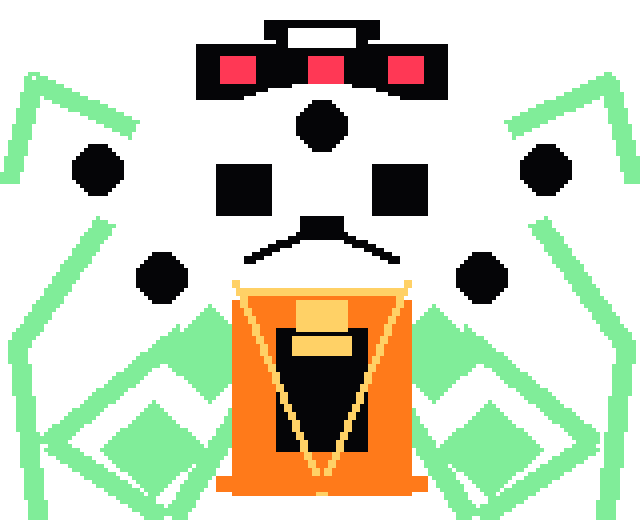
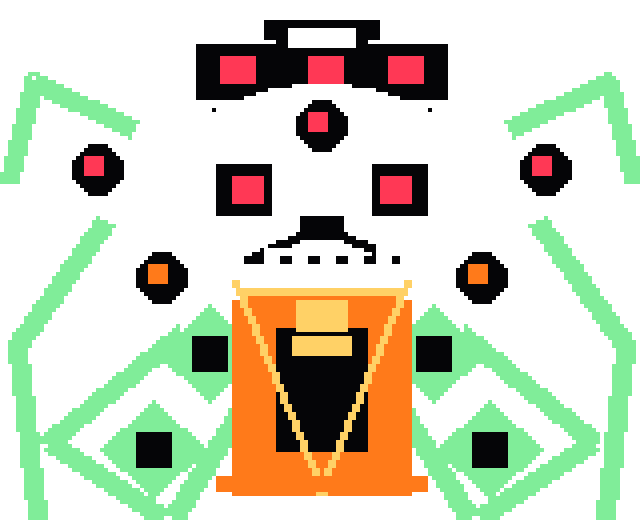
Sharpen omega flowey soul storm

diff --git a/script.js b/script.js
@@ -1549,6 +1549,21 @@ function omegaPattern(dt) {
     const angle = t * 1.9 + index * 0.82;
     spawn("pellet", { x: origin[0], y: origin[1], vx: Math.cos(angle) * (148 + progress * 38), vy: Math.sin(angle) * (148 + progress * 38), r: 7, angle, spin: -2.7 });
   }
+  if (state.wave === 2 && every("omega-soul-relay", 0.9 - progress * 0.1, dt)) {
+    const index = sequenceIndex(0.9 - progress * 0.1);
+    const safe = index % 6;
+    const cx = arena.x + arena.w / 2;
+    const cy = arena.y + arena.h / 2;
+    for (let i = 0; i < 6; i++) {
+      if (i === safe || i === (safe + 1) % 6) continue;
+      const a = (Math.PI * 2 * i) / 6 + t * 0.22;
+      const x = cx + Math.cos(a) * (arena.w / 2 + 20);
+      const y = cy + Math.sin(a) * (arena.h / 2 + 20);
+      const toward = Math.atan2(cy - y, cx - x);
+      const kind = i % 2 === 0 ? "diamond" : "pellet";
+      spawn(kind, { x, y, vx: Math.cos(toward) * (170 + progress * 34), vy: Math.sin(toward) * (170 + progress * 34), r: kind === "diamond" ? 9 : 7, angle: toward, spin: kind === "diamond" ? -3.8 : -2.4 });
+    }
+  }
   if (state.wave === 2 && every("omega-vine-rake", 1.42 - progress * 0.12, dt)) {
     const index = sequenceIndex(1.42 - progress * 0.12);
     const safe = index % 4;

diff --git a/tools/generate_boss_portraits.py b/tools/generate_boss_portraits.py
@@ -326,9 +326,12 @@ def omega():
     rect(d, (61, 3, 99, 8), WHITE)
     rect(d, (66, 5, 94, 9), BLACK)
     rect(d, (72, 7, 88, 11), WHITE)
+    rect(d, (48, 25, 112, 31), WHITE)
+    rect(d, (53, 27, 107, 31), BLACK)
     draw_omega_face(d, 80, 49)
     for x, y in [(24, 42), (136, 42), (40, 69), (120, 69), (80, 31)]:
         draw_eye(d, x, y)
+        rect(d, (x - 3, y - 3, x + 1, y + 1), RED if y < 50 else ORANGE)
     for pts in [
         [(26, 55), (4, 86), (9, 129)],
         [(134, 55), (156, 86), (151, 129)],
@@ -342,6 +345,7 @@ def omega():
         line(d, pts, GREEN, 5)
     for x, y in [(52, 88), (108, 88), (38, 112), (122, 112)]:
         poly(d, [(x, y - 12), (x + 13, y), (x, y + 12), (x - 13, y)], GREEN)
+        rect(d, (x - 4, y - 4, x + 4, y + 4), BLACK)
     rect(d, (58, 70, 102, 123), ORANGE)
     rect(d, (54, 66, 106, 74), WHITE)
     rect(d, (60, 74, 100, 82), ORANGE)
@@ -358,7 +362,12 @@ def draw_omega_face(draw, cx, cy):
     draw.ellipse((cx - 40, cy - 28, cx + 40, cy + 25), fill=WHITE)
     rect(draw, (cx - 26, cy - 8, cx - 13, cy + 4), BLACK)
     rect(draw, (cx + 13, cy - 8, cx + 26, cy + 4), BLACK)
+    rect(draw, (cx - 22, cy - 5, cx - 15, cy + 1), RED)
+    rect(draw, (cx + 15, cy - 5, cx + 22, cy + 1), RED)
     line(draw, [(cx - 19, cy + 16), (cx, cy + 7), (cx + 19, cy + 16)], BLACK, 3)
+    rect(draw, (cx - 18, cy + 15, cx + 18, cy + 19), BLACK)
+    for x in range(-14, 15, 7):
+        rect(draw, (cx + x, cy + 13, cx + x + 3, cy + 20), WHITE)
     rect(draw, (cx - 5, cy + 5, cx + 5, cy + 10), BLACK)
 
 

diff --git a/README.md b/README.md
@@ -58,6 +58,7 @@ Sans and Asriel now have clearer hand-placed face, clothing, and emblem details,
 Undyne the Undying and Mettaton now have stronger face/core/armor pixel reads, with a new original Undying spear-ring salvo and faster Mettaton ratings pellets in their final waves.
 Disbelief Papyrus and Bad Time Trio now have sharper Papyrus face/body pixels, plus new original final-wave bone-fan and synchronized trio burst patterns with readable safe gaps.
 Asgore and Asriel now have stronger crown/robe/halo-style pixel cues, plus original trident-pinch, saber-cross, and dream-rain pressure for closer mid/final wave practice.
+Omega Flowey now has clearer monitor, red-eye, mouth, and vine-node pixels, and Soul Storm adds an original six-source relay burst with adjacent safe lanes.
 Dynamic wave ramps use staged opener/build/finale intensity, so attacks start readable and tighten toward the end instead of changing at one flat rate.
 Weapon warnings and hazard telegraphs also follow that intensity curve, giving longer reads at the start of a turn and quicker warnings during the finale.
 Pattern sequencing now advances with the tuned spawn rate, so faster waves use the intended ordered reads instead of repeating lanes; Sans, Undyne, Undying, Asgore, Omega, Asriel, Mettaton, and Disbelief patterns have tighter speeds and more source-style safe gaps.
